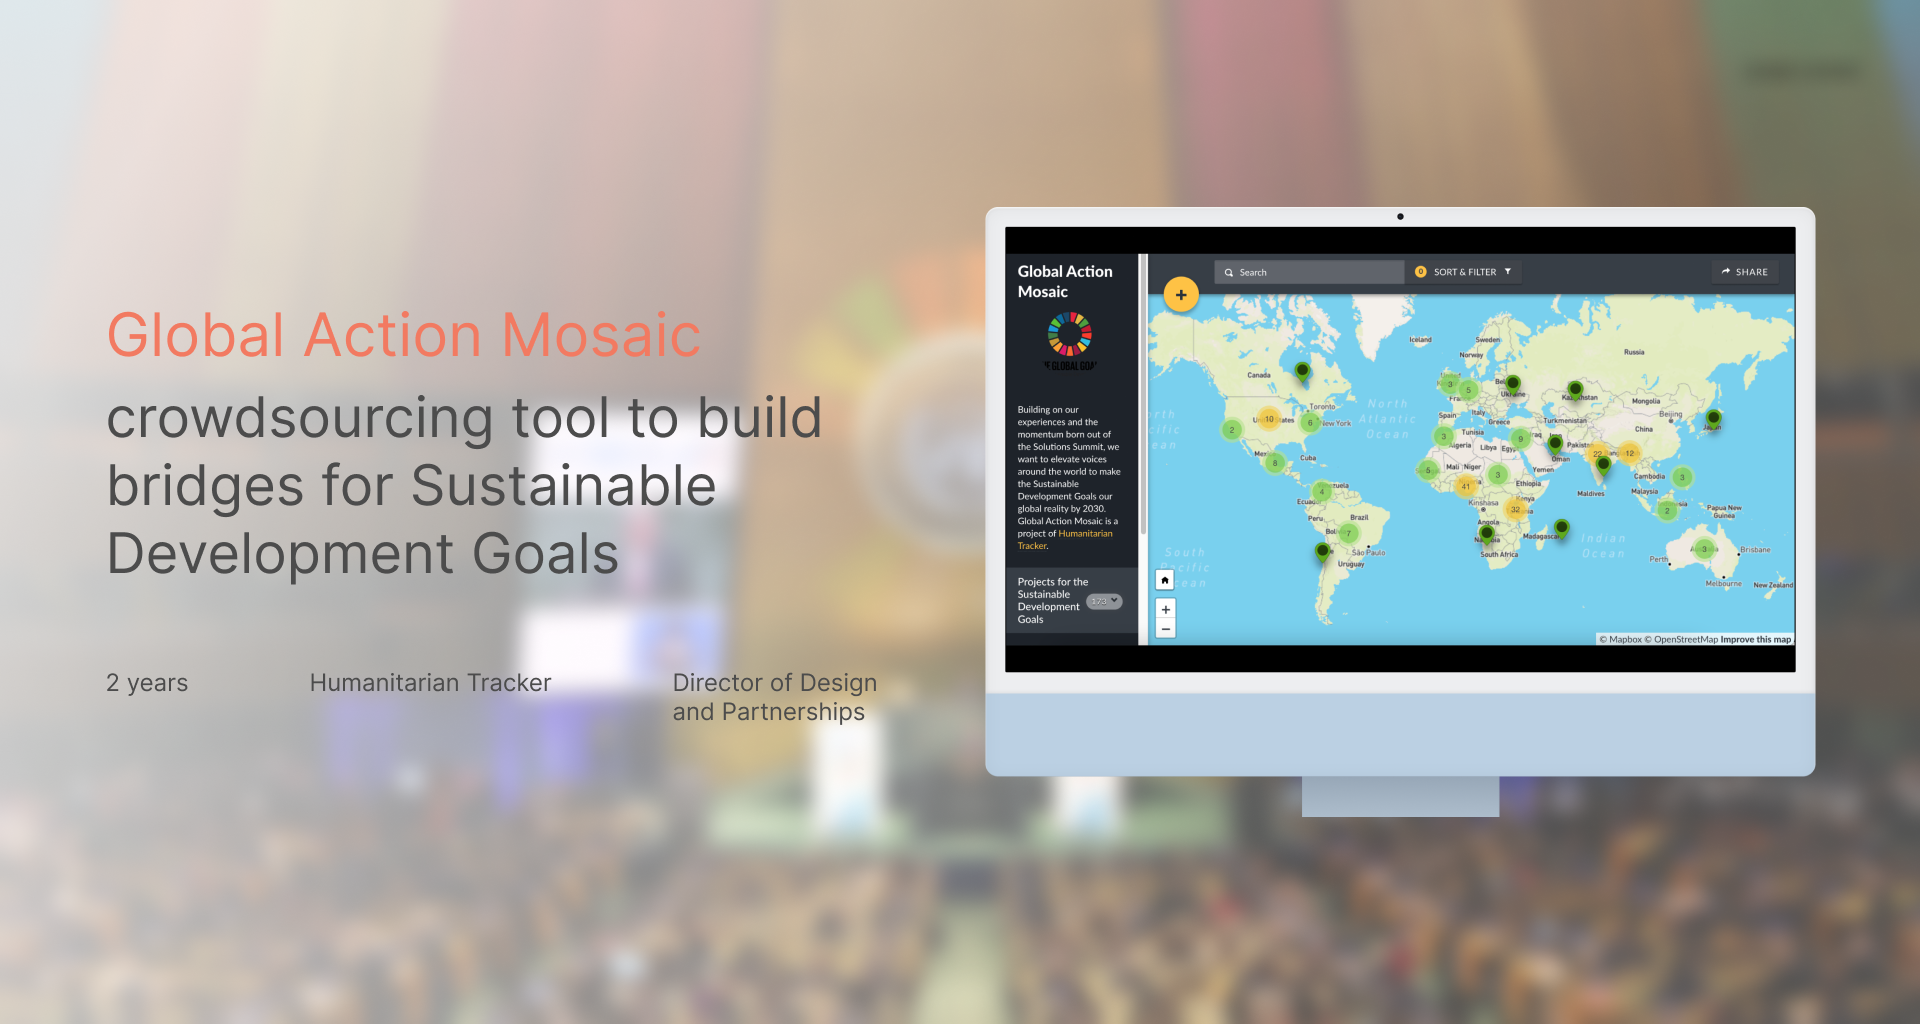
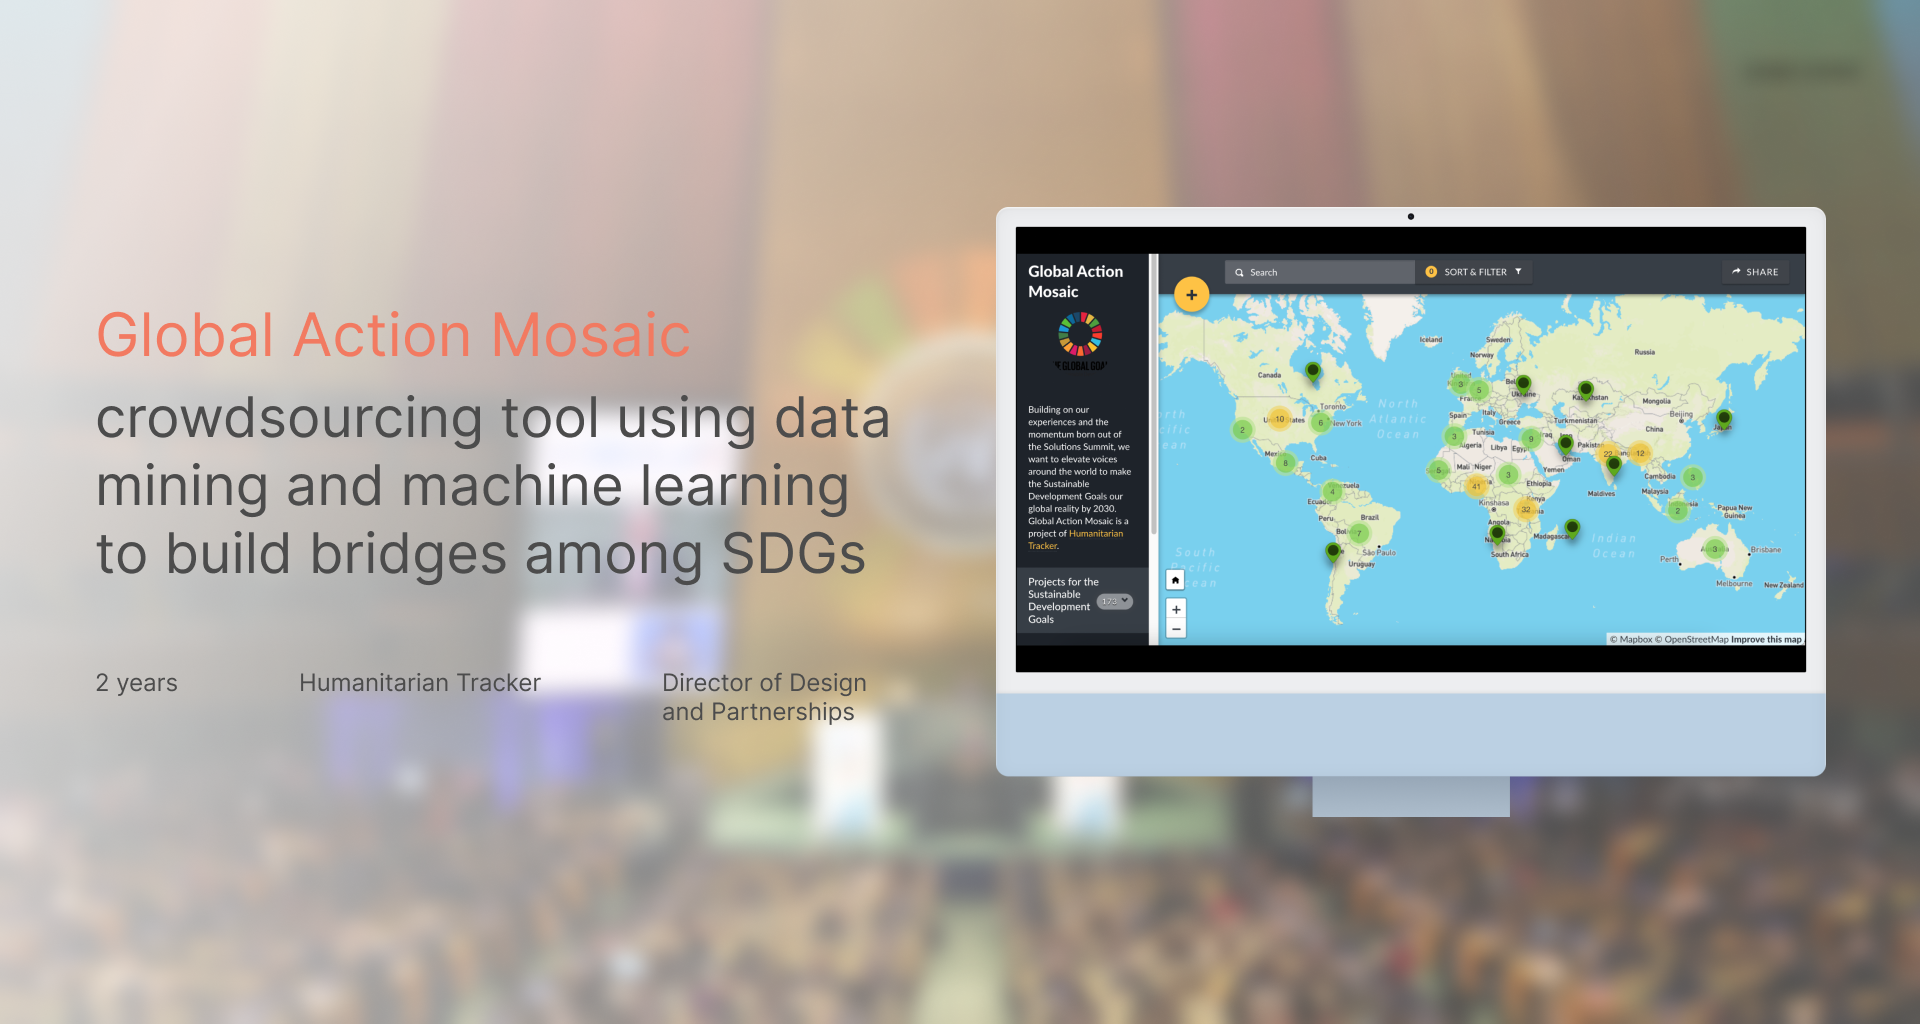
Add files via upload

diff --git a/ht.html b/ht.html
@@ -39,8 +39,8 @@
                         <h3 class="section-header"> Challenge </h3>
                         <p>
                             <br>
-                            In the nonprofit sector, collaboration is essential for achieving sustainable development goals. Currently, lack of effective knowledge sharing and collaboration tools often hinders progress. As the design and partnership lead at Humanitarian Tracker, my goal was to leverage mapping technology to foster collaboration, share knowledge, and promote social activism.
-                    </div>
+                            Our CEO recognized that nonprofit professionals, social entrepreneurs, and individuals passionate about social impact required better tools for collaboration and knowledge sharing. They often struggled with data management and reporting, hindering their ability to create meaningful change.
+</div>
                 </div>
             </section>
             <section class="projects"><img src="ht-sdg.png" class="caseimage"></section>
@@ -52,14 +52,14 @@
                         <h3 class="section-header"> Solution </h3>
                         <p>
                             <br>
-                            We embarked on a journey to transform raw data into actionable insights, resulting in:
+                            In the nonprofit sector, collaboration is essential for achieving sustainable development goals. I worked on transforming digital presence as well as raw data into actionable insights. <br><br>Leveraging mapping technology and learning language models to foster collaboration, share knowledge, and promote social activism resulted in: 
                             <br>
-                            (1) An 85% increase in digital engagement
+                            (1) 85% increase in digital engagement
                             <br>
                             (2) Crowdsourced innovation from 63 countries
                             <br>
-                            (3) An official partnership with the United Nations among other industry leaders including SDG Action Zone
-                    </div>
+                            (3) Official partnership with the United Nations among other industry leaders
+                            </div>
                 </div>
                 <br>
             </section>
@@ -85,7 +85,7 @@
                         <h3 class="section-header"> Audience </h3>
                         <p>
                             <br>
-                            Our target audience included nonprofit professionals, social entrepreneurs, and individuals passionate about social impact. I focused on conference presenters and attendees as our primary personas.
+                            Our target audience included nonprofit professionals, social entrepreneurs, and individuals passionate about social impact. I focused on conference presenters and attendees as our primary personas due to their accessbility during the UN General Assembly.
                     </div>
                 </div>
             </section>
@@ -111,7 +111,7 @@
                         <h3 class="section-header"> Early Concept </h3>
                         <p>
                             <br>
-                            Global Action Mosaic seamlessly integrated with Humanitarian Tracker's existing data mining and machine learning technology. Users could easily map their work, simplify the reporting process, and automatically categorize and map data through machine learning. Interactive maps, graphs, and detailed insights were also available.
+                            Global Action Mosaic seamlessly integrated with Humanitarian Tracker's existing data mining and machine learning technology. Users could easily map their work, simplify the reporting process, and automatically categorize and map data through machine learning. Interactive maps, graphs, and detailed insights would also be available.
 
                     </div>
                 </div>

diff --git a/index.html b/index.html
@@ -66,7 +66,7 @@
                 </article>
 
                 <article class="project reveal">
-                    <a href="haven.html"><img src="xwork-bvcc.png" class="headimage"></a>
+                    <a href="haven.html"><img src="work-bvcc.png" class="headimage"></a>
                     <div class="project-details">
                         <div class="project-info">
                             <h3 class="name"><a href="bvcc.html">InnerView</a></h3>
